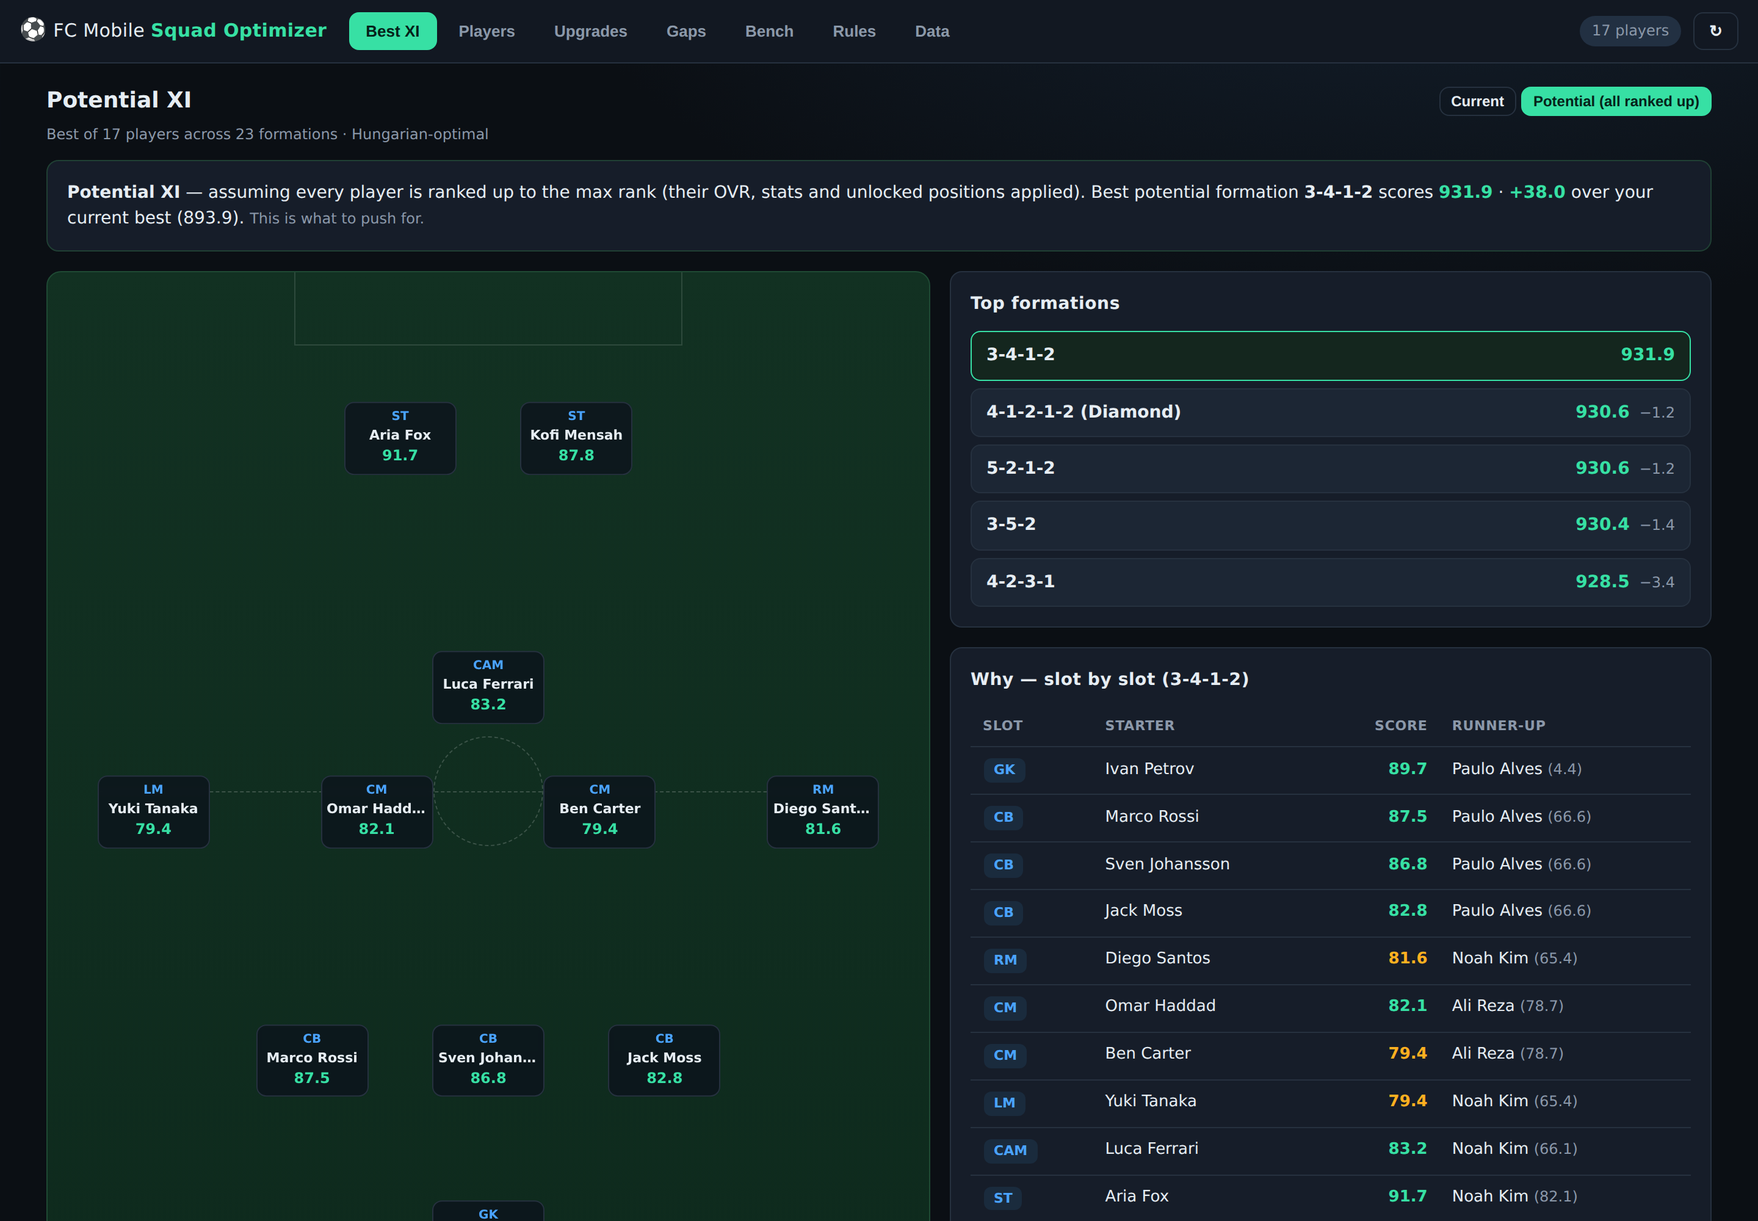
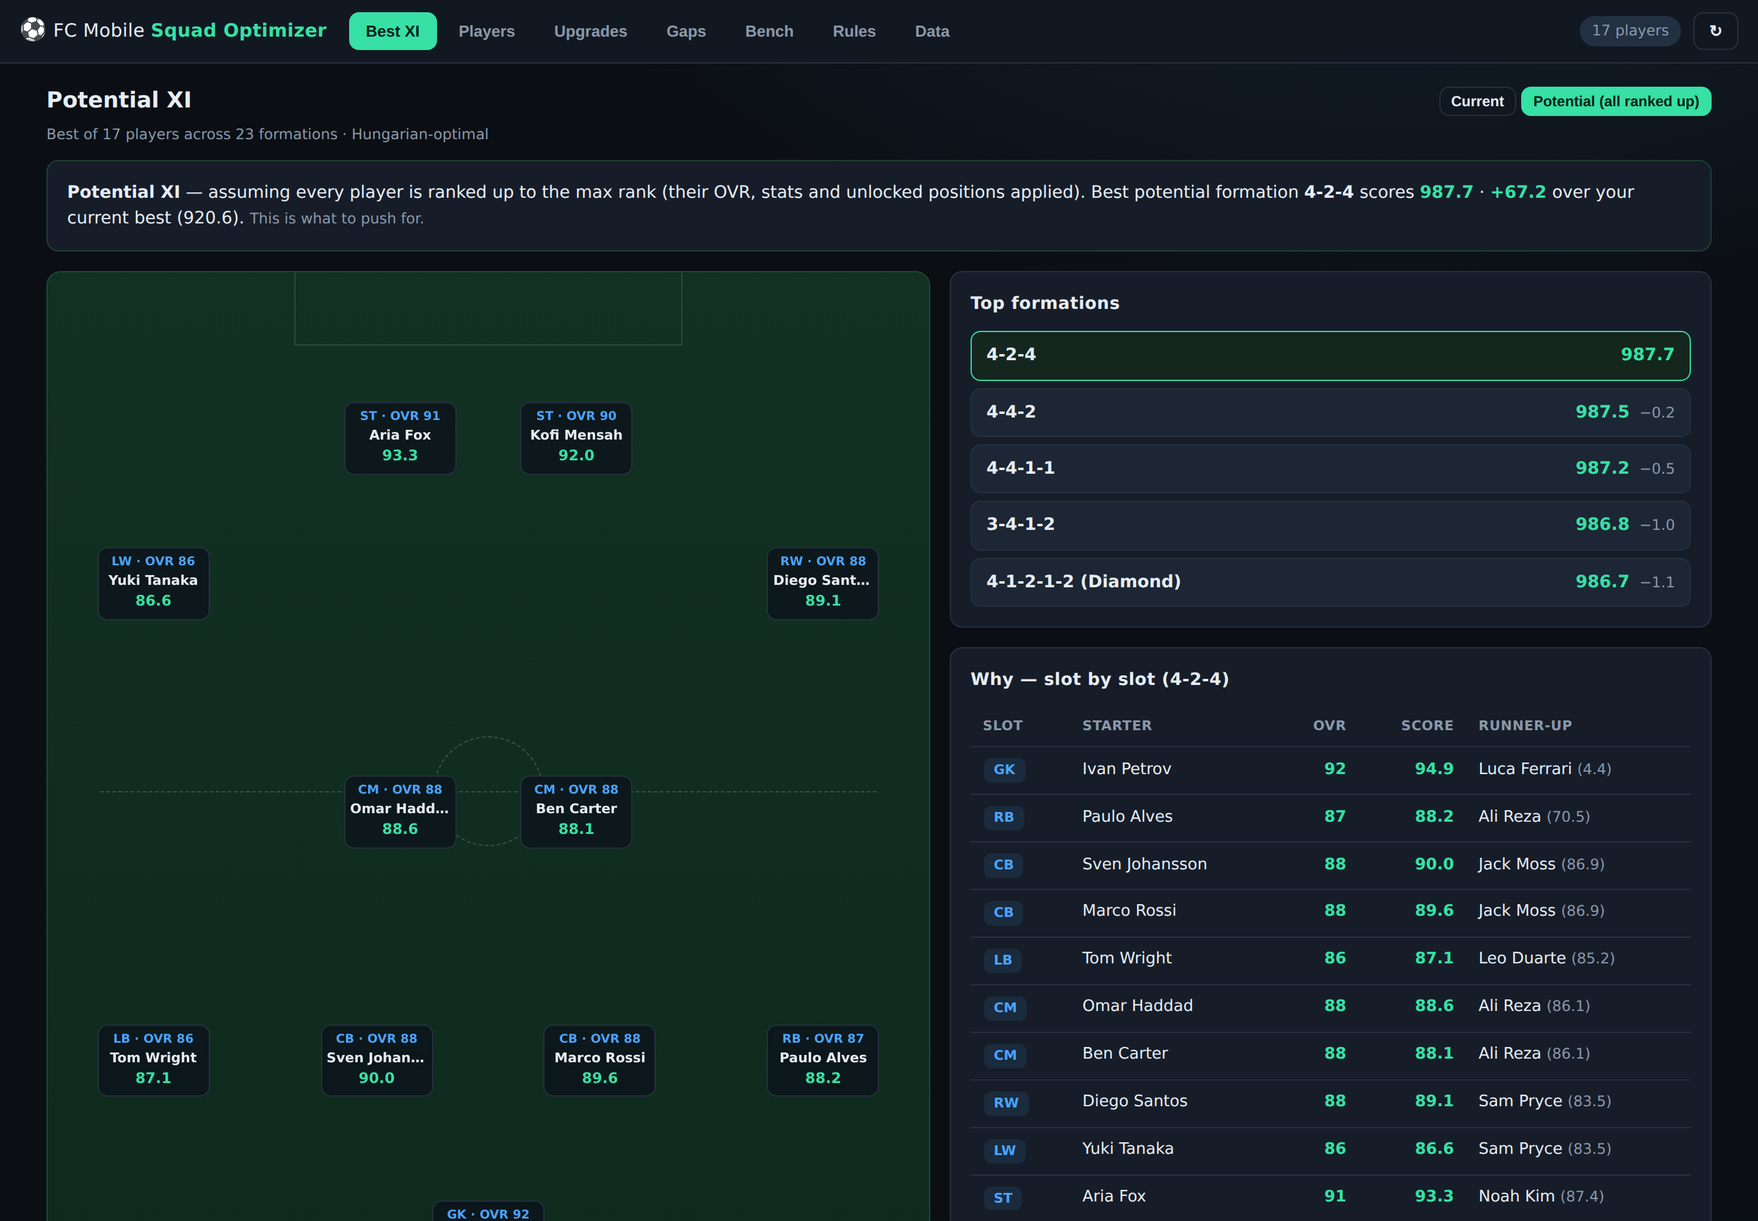
Base stats (level 0), OVR-first scoring, OVR shown, potential from base
- Player editor: new "Base stats (at training level 0)" section - the fair way
  to compare cards. Stored per player, round-trips through CSV/JSON, migrates
  existing DBs.
- Scoring is now OVR-first, then stats: score = ovr_weight*OVR +
  (1-ovr_weight)*stat_rating (default 0.7, editable in stat_weights.json).
  Applies to both Best XI and Potential XI.
- Best XI / Potential XI now show each starter's OVR (pitch cards + reasoning).
- Potential XI is built from each player's base stats, trained to max level and
  fully ranked up - the true card ceiling, ranked by base-stat quality.
- 19 tests pass (added base-stats potential test).

Claude-Session: https://claude.ai/code/session_0186D7V2GWLdLZnzqt7dgDp5

diff --git a/frontend/js/app.js b/frontend/js/app.js
@@ -158,7 +158,7 @@ async function renderSquad(app) {
     return `<div class="slot ${empty ? "empty" : ""}" style="left:${c.x * 100}%;top:${c.y * 100}%"
       data-pid="${s.player_id ?? ""}">
       <div class="card">
-        <div class="pos">${s.position}</div>
+        <div class="pos">${s.position}${empty ? "" : ` · OVR ${Math.round(s.ovr)}`}</div>
         <div class="nm">${esc(empty ? "—" : s.player_name)}</div>
         <div class="sc">${empty ? "" : s.score.toFixed(1)}</div>
       </div></div>`;
@@ -178,6 +178,7 @@ async function renderSquad(app) {
     return `<tr>
       <td><span class="chip pos">${s.position}</span></td>
       <td class="clickable" data-pid="${s.player_id ?? ""}">${esc(s.player_name)}</td>
+      <td class="num rating ${s.player_id == null ? "" : ratingClass(s.ovr)}">${s.player_id == null ? "—" : Math.round(s.ovr)}</td>
       <td class="num rating ${s.player_id == null ? "" : ratingClass(s.score)}">${s.player_id == null ? "—" : s.score.toFixed(1)}</td>
       <td>${ru}</td>
     </tr>`;
@@ -209,7 +210,7 @@ async function renderSquad(app) {
       <div class="col" style="flex:1 1 320px">
         <div class="panel"><h3>Top formations</h3><div class="formation-list">${formationList}</div></div>
         <div class="panel"><h3>Why — slot by slot (${esc(fr.formation)})</h3>
-          <table><thead><tr><th>Slot</th><th>Starter</th><th class="num">Score</th><th>Runner-up</th></tr></thead>
+          <table><thead><tr><th>Slot</th><th>Starter</th><th class="num">OVR</th><th class="num">Score</th><th>Runner-up</th></tr></thead>
           <tbody>${reasoning}</tbody></table>
         </div>
       </div>
@@ -278,7 +279,7 @@ function openEditor(id) {
   State.editing = p ? JSON.parse(JSON.stringify(p)) : {
     name: "", ovr: "", rank: "", training_level: "",
     pace: "", shooting: "", passing: "", dribbling: "", defending: "", physical: "",
-    positions: [], rankup_positions: [], playstyles: [], skill_points: "", notes: "",
+    positions: [], rankup_positions: [], playstyles: [], skill_points: "", notes: "", base_stats: null,
   };
   $("#drawer-title").textContent = id ? "Edit player" : "Add player";
   $("#player-delete-wrap").style.display = id ? "" : "none";
@@ -306,10 +307,18 @@ function buildEditorForm() {
       <div class="field"><label>Rank (0–5)</label><input id="f-rank" type="number" min="0" max="5" value="${val(p.rank)}" placeholder="0" /></div>
       <div class="field"><label>Training (0–30)</label><input id="f-training_level" type="number" min="0" max="30" value="${val(p.training_level)}" placeholder="0" /></div>
     </div>
-    <div class="field"><label>${isGk ? "Goalkeeper stats" : "Main stats"}</label>
+    <div class="field"><label>${isGk ? "Goalkeeper stats (current)" : "Main stats (current)"}</label>
       ${isGk ? '<div class="hint" style="margin-bottom:6px">GK selected — these six are Diving / Handling / Kicking / Reflexes / Positioning / Physical.</div>' : ""}
       <div class="statgrid">
         ${stats.map((s) => `<div class="field" style="margin:0"><label>${statLabel(s, isGk)}</label><input id="f-${s}" type="number" value="${val(p[s])}" placeholder="—" /></div>`).join("")}
+      </div>
+    </div>
+    <div class="field"><label>Base stats (at training level 0)</label>
+      <div class="hint" style="margin-bottom:6px">Optional but recommended — the fair way to compare cards, and what the <b>Potential XI</b> is built from.</div>
+      <div class="statgrid">
+        ${stats.map((s) => `<div class="field" style="margin:0"><label>${statLabel(s, isGk)}</label>
+          <input id="b-${s}" type="number" placeholder="—"
+            value="${p.base_stats && p.base_stats[s] != null ? p.base_stats[s] : ""}" /></div>`).join("")}
       </div>
     </div>
     <div class="field"><label>Positions (click to toggle)</label><div id="pos-chips">${posChips}</div></div>
@@ -361,6 +370,9 @@ function syncEditor() {
   const growth = {}; let has = false;
   State.meta.main_stats.forEach((s) => { const v = g("g-" + s).value.trim(); if (v !== "") { growth[s] = Number(v); has = true; } });
   p.growth_override = has ? growth : null;
+  const bs = {}; let hasB = false;
+  State.meta.main_stats.forEach((s) => { const v = g("b-" + s).value.trim(); if (v !== "") { bs[s] = Number(v); hasB = true; } });
+  p.base_stats = hasB ? bs : null;
 }
 
 function collectEditor() {
@@ -371,6 +383,9 @@ function collectEditor() {
   const growth = {};
   let hasGrowth = false;
   stats.forEach((s) => { const v = g("g-" + s).value.trim(); if (v !== "") { growth[s] = parseFloat(v); hasGrowth = true; } });
+  const baseStats = {};
+  let hasBase = false;
+  stats.forEach((s) => { const v = g("b-" + s).value.trim(); if (v !== "") { baseStats[s] = parseFloat(v); hasBase = true; } });
   const playstyles = [];
   ["ps0", "ps1"].forEach((k) => {
     const name = g("f-" + k).value;
@@ -384,6 +399,7 @@ function collectEditor() {
     positions: p.positions,
     rankup_positions: g("f-rankup_positions").value.split(",").map((x) => x.trim()).filter(Boolean),
     playstyles,
+    base_stats: hasBase ? baseStats : null,
     growth_override: hasGrowth ? growth : null,
     skill_points: Math.round(num("f-skill_points", 0)),
     notes: g("f-notes").value.trim(),

diff --git a/backend/scoring.py b/backend/scoring.py
@@ -37,6 +37,7 @@ class PlayerState:
     playstyles: list[dict] = field(default_factory=list)
     growth: dict[str, float] = field(default_factory=dict)
     skill_points: int = 0
+    base_stats: dict[str, float] = field(default_factory=dict)
 
     def copy(self) -> "PlayerState":
         return replace(
@@ -46,6 +47,7 @@ class PlayerState:
             rankup_positions=list(self.rankup_positions),
             playstyles=[dict(p) for p in self.playstyles],
             growth=dict(self.growth),
+            base_stats=dict(self.base_stats),
         )
 
 
@@ -66,6 +68,7 @@ def player_to_state(p: Player) -> PlayerState:
         playstyles=list(p.playstyles or []),
         growth=growth,
         skill_points=int(p.skill_points or 0),
+        base_stats={s: float(v) for s, v in (p.base_stats or {}).items() if v is not None},
     )
 
 
@@ -111,20 +114,33 @@ def _gk_rating(state: PlayerState) -> float:
     return sum(eff[s] * w[s] for s in MAIN_STATS)
 
 
+def _ovr_weight() -> float:
+    """How much OVR drives the score vs the position-weighted stats. Higher = 'overall
+    first, stats second'. Editable in rules/stat_weights.json."""
+    w = rules_mod.load("stat_weights").get("ovr_weight", 0.7)
+    return min(1.0, max(0.0, float(w)))
+
+
 def slot_score(state: PlayerState, position: str) -> float:
-    """Score of this player in this slot, on a 0-100-ish scale."""
+    """Score of this player in this slot, on a 0-100-ish scale.
+
+    Scored OVERALL first, then stats: score = ovr_weight*OVR + (1-ovr_weight)*stat_rating,
+    where stat_rating is the position-weighted stats (or GK stats for keepers). An
+    out-of-position penalty multiplies the result.
+    """
     pos_rules = rules_mod.load("positions")
     oop_penalty = pos_rules.get("out_of_position_penalty", 0.82)
     gk_penalty = pos_rules.get("gk_mismatch_penalty", 0.05)
+    ow = _ovr_weight()
 
     if position == "GK":
-        # Keepers are scored from their GK stats; a non-keeper in goal is prohibited.
-        return _gk_rating(state) if _is_gk(state) else state.ovr * gk_penalty
+        if not _is_gk(state):
+            return state.ovr * gk_penalty  # a non-keeper in goal is prohibited
+        return ow * state.ovr + (1 - ow) * _gk_rating(state)
 
     # Outfield slot.
     if _is_gk(state) and len(state.positions) == 1:
-        # A pure keeper stuck outfield: prohibitive.
-        factor = gk_penalty
+        factor = gk_penalty  # a pure keeper stuck outfield: prohibitive
     elif position in state.positions:
         factor = 1.0
     else:
@@ -132,8 +148,8 @@ def slot_score(state: PlayerState, position: str) -> float:
 
     eff = effective_stats(state)
     w = _normalised_weights(position)
-    base = sum(eff[s] * w[s] for s in MAIN_STATS)
-    return base * factor
+    stat_rating = sum(eff[s] * w[s] for s in MAIN_STATS)
+    return (ow * state.ovr + (1 - ow) * stat_rating) * factor
 
 
 def best_position_score(state: PlayerState) -> tuple[str, float]:
@@ -212,6 +228,22 @@ def fully_ranked_up(state: PlayerState) -> PlayerState:
         s = nxt
         guard += 1
     return s
+
+
+def potential_state(state: PlayerState) -> PlayerState:
+    """A player's ceiling for the Potential XI: start from their BASE stats at level 0
+    (the fair comparison, if entered), train to the max level, and rank up to the max.
+    If no base stats are entered, fall back to current stats and just rank up."""
+    max_level = rules_mod.load("growth").get("max_training_level", 30)
+    ns = state.copy()
+    base = state.base_stats or {}
+    if any(base.get(s) for s in MAIN_STATS):
+        ns.stats = {s: float(base.get(s, ns.stats.get(s, 0.0))) for s in MAIN_STATS}
+        ns.training_level = 0
+        trained = with_training_level(ns, max_level)
+        if trained is not None:
+            ns = trained
+    return fully_ranked_up(ns)
 
 
 def with_skill_point(state: PlayerState, stat: str) -> Optional[PlayerState]:

diff --git a/backend/csvio.py b/backend/csvio.py
@@ -6,9 +6,11 @@ import io
 
 from .models import MAIN_STATS, Player
 
+BASE_COLS = [f"base_{s}" for s in MAIN_STATS]
 CSV_COLUMNS = [
     "name", "ovr", "rank", "training_level",
     *MAIN_STATS,
+    *BASE_COLS,          # base stats at level 0 (blank = not set)
     "positions",         # pipe-separated, e.g. ST|CF
     "rankup_positions",  # pipe-separated
     "playstyles",        # pipe-separated, '+' suffix marks PlayStyle+, e.g. Rapid+|Finesse Expert
@@ -48,6 +50,7 @@ def export_csv(players: list[Player]) -> str:
             "rank": p.rank,
             "training_level": p.training_level,
             **{s: getattr(p, s) for s in MAIN_STATS},
+            **{f"base_{s}": (p.base_stats or {}).get(s, "") for s in MAIN_STATS},
             "positions": "|".join(p.positions or []),
             "rankup_positions": "|".join(p.rankup_positions or []),
             "playstyles": _fmt_playstyles(p.playstyles or []),
@@ -72,6 +75,15 @@ def parse_csv(text: str) -> list[Player]:
             except (ValueError, TypeError):
                 return default
 
+        base = {}
+        for s in MAIN_STATS:
+            v = (row.get(f"base_{s}") or "").strip()
+            if v != "":
+                try:
+                    base[s] = float(v)
+                except ValueError:
+                    pass
+
         players.append(Player(
             name=row["name"].strip(),
             ovr=num("ovr", int, 50),
@@ -83,6 +95,7 @@ def parse_csv(text: str) -> list[Player]:
             dribbling=num("dribbling", float, 50),
             defending=num("defending", float, 50),
             physical=num("physical", float, 50),
+            base_stats=base or None,
             positions=[x.strip() for x in (row.get("positions") or "").split("|") if x.strip()],
             rankup_positions=[x.strip() for x in (row.get("rankup_positions") or "").split("|") if x.strip()],
             playstyles=_parse_playstyles(row.get("playstyles", "")),

diff --git a/backend/db.py b/backend/db.py
@@ -11,9 +11,10 @@ import sqlite3
 from .models import MAIN_STATS, Player
 from .paths import DB_PATH, ensure_dirs
 
-JSON_FIELDS = {"positions", "rankup_positions", "playstyles", "growth_override"}
+JSON_FIELDS = {"positions", "rankup_positions", "playstyles", "growth_override", "base_stats"}
 COLUMNS = [
     "name", "ovr", "rank", "training_level", *MAIN_STATS,
+    "base_stats",
     "positions", "rankup_positions", "playstyles", "growth_override",
     "skill_points", "notes",
 ]
@@ -36,11 +37,17 @@ def init_db() -> None:
             name TEXT NOT NULL,
             ovr INTEGER, rank INTEGER, training_level INTEGER,
             pace REAL, shooting REAL, passing REAL, dribbling REAL, defending REAL, physical REAL,
+            base_stats TEXT,
             positions TEXT, rankup_positions TEXT, playstyles TEXT, growth_override TEXT,
             skill_points INTEGER, notes TEXT
         )
         """
     )
+    # Migrate older databases that predate a column (e.g. base_stats).
+    existing = {row["name"] for row in con.execute("PRAGMA table_info(players)").fetchall()}
+    for col, decl in {"base_stats": "TEXT"}.items():
+        if col not in existing:
+            con.execute(f'ALTER TABLE players ADD COLUMN "{col}" {decl}')
     con.commit()
     con.close()
 
@@ -52,7 +59,7 @@ def _row_to_player(row: sqlite3.Row) -> Player:
         if raw:
             d[f] = json.loads(raw)
         else:
-            d[f] = None if f == "growth_override" else []
+            d[f] = None if f in ("growth_override", "base_stats") else []
     return Player(**d)
 
 

diff --git a/backend/optimizer.py b/backend/optimizer.py
@@ -24,6 +24,7 @@ class SlotAssignment:
     player_id: Optional[int]
     player_name: str
     score: float
+    ovr: Optional[float]
     runner_up_id: Optional[int]
     runner_up_name: Optional[str]
     runner_up_score: Optional[float]
@@ -88,13 +89,13 @@ def solve_formation(
                 ru_id, ru_name, ru_score = st.id, st.name, float(col[i])
 
         if r is None:
-            assignments.append(SlotAssignment(j, pos, None, "(empty)", 0.0, ru_id, ru_name, ru_score))
+            assignments.append(SlotAssignment(j, pos, None, "(empty)", 0.0, None, ru_id, ru_name, ru_score))
         else:
             st = states[r]
             sc = float(col[r])
             total += sc
             assignments.append(
-                SlotAssignment(j, pos, st.id, st.name, sc, ru_id, ru_name, ru_score)
+                SlotAssignment(j, pos, st.id, st.name, sc, float(st.ovr), ru_id, ru_name, ru_score)
             )
 
     return FormationResult(formation=formation["name"], total=total, slots=assignments)

diff --git a/backend/models.py b/backend/models.py
@@ -19,6 +19,7 @@ MAIN_STATS = ["pace", "shooting", "passing", "dribbling", "defending", "physical
 # Fields a client is allowed to set on a player (everything except the id).
 EDITABLE_FIELDS = [
     "name", "ovr", "rank", "training_level", *MAIN_STATS,
+    "base_stats",
     "positions", "rankup_positions", "playstyles",
     "growth_override", "skill_points", "notes",
 ]
@@ -45,6 +46,9 @@ class Player:
     rankup_positions: list = field(default_factory=list)
     # Up to two play styles: [{"name": "Rapid", "plus": false}, ...]
     playstyles: list = field(default_factory=list)
+    # Base stats at training level 0 (the fair way to compare cards, since current stats
+    # depend on how much a player has been trained). Optional dict {"pace": 70, ...}.
+    base_stats: Optional[dict] = None
     # Optional per-player growth override: {"pace": 0.6, ...}. None -> use rules/growth.json.
     growth_override: Optional[dict] = None
     # Unspent skill points available to allocate.

diff --git a/tests/test_scoring.py b/tests/test_scoring.py
@@ -94,3 +94,17 @@ def test_skill_point_spend():
     assert up.skill_points == 0
     assert up.stats["shooting"] > p.stats["shooting"]
     assert with_skill_point(mk(skill_points=0), "shooting") is None
+
+
+def test_potential_uses_base_stats_trained_and_ranked():
+    from backend.scoring import potential_state
+    STATS = ["pace", "shooting", "passing", "dribbling", "defending", "physical"]
+    p = mk(positions=["ST"], training_level=10, rank=0, ovr=80,
+           growth={s: 1.0 for s in STATS})
+    p.base_stats = {s: 50.0 for s in STATS}
+    pot = potential_state(p)
+    assert pot.training_level == 30          # trained to max from base
+    assert pot.rank == 5                      # fully ranked up
+    # base 50 + growth 1.0*30 = 80, plus rank stat bumps (>= 80)
+    assert pot.stats["shooting"] >= 80
+    assert pot.ovr > p.ovr                    # rank ups raised OVR

diff --git a/seed_sample.py b/seed_sample.py
@@ -44,11 +44,15 @@ def main() -> None:
     if replace:
         db.delete_all()
     for (name, ovr, rank, lvl, pac, sho, pas, dri, dfn, phy, pos, styles) in SAMPLE:
+        cur = {"pace": pac, "shooting": sho, "passing": pas, "dribbling": dri, "defending": dfn, "physical": phy}
+        # Rough level-0 base stats for the demo (current minus ~0.4 per trained level).
+        base = {s: round(v - 0.4 * lvl) for s, v in cur.items()}
         db.create(Player(
             name=name, ovr=ovr, rank=rank, training_level=lvl,
-            pace=pac, shooting=sho, passing=pas, dribbling=dri, defending=dfn, physical=phy,
             positions=pos,
+            base_stats=base,
             playstyles=[{"name": n, "plus": plus} for (n, plus) in styles],
+            **cur,
         ))
     print(f"Seeded {len(SAMPLE)} sample players (replace={replace}).")
 

diff --git a/backend/main.py b/backend/main.py
@@ -130,9 +130,9 @@ def squad(top: int = 5, potential: bool = False):
     out = {"enough_players": True, "have": len(states), "potential": potential}
     if potential:
         from .optimizer import best_squad_score
-        from .scoring import fully_ranked_up
+        from .scoring import potential_state
         out["current_best_total"] = round(best_squad_score(states), 3)
-        states = [fully_ranked_up(s) for s in states]
+        states = [potential_state(s) for s in states]
 
     results = optimize(states, top_n=top)
     out["results"] = [formation_out(r) for r in results]

diff --git a/backend/serialize.py b/backend/serialize.py
@@ -21,6 +21,7 @@ def player_out(p: Player) -> dict:
         "training_level": p.training_level,
         **{s: getattr(p, s) for s in MAIN_STATS},
         "effective_stats": {k: round(v, 1) for k, v in eff.items()},
+        "base_stats": p.base_stats or None,
         "positions": p.positions or [],
         "rankup_positions": p.rankup_positions or [],
         "playstyles": p.playstyles or [],

diff --git a/README.md b/README.md
@@ -23,8 +23,10 @@ the way it was (including the runner-up).
 ![Best XI](docs/images/01-best-xi.png)
 
 Flip the **Current / Potential** toggle to see your **Potential XI** — the best team and
-formation if every player were **fully ranked up** (max rank, with their OVR, stats and
-unlocked positions applied). It shows the score gain over your current best, so you know
+formation at each card’s ceiling: built from every player’s **base stats (at level 0)**,
+trained to the max level and **fully ranked up**. Because base stats are the fair way to
+compare cards (current stats just reflect how much you’ve trained), this shows which players
+are genuinely worth investing in. It reports the gain over your current best, so you know
 what to push for.
 
 ![Potential XI](docs/images/11-potential-xi.png)
@@ -119,7 +121,13 @@ Then launch. Delete the samples any time from the **Players** tab.
 ## How it works
 
 ### The score (fully swappable)
-**Squad score = the sum of the 11 per-slot scores.** A slot score is:
+**Squad score = the sum of the 11 per-slot scores.** Each slot score is **OVR first, then
+stats**: `score = ovr_weight × OVR + (1 − ovr_weight) × stat_rating` (default `ovr_weight`
+0.7, editable in [`rules/stat_weights.json`](rules/stat_weights.json)), then an
+out-of-position penalty is applied. So a player’s overall rating drives selection and their
+stats fine-tune it. Each starter’s **OVR is shown** on the pitch and in the reasoning table.
+
+The `stat_rating` part is:
 
 - **Outfield:** a position-weighted average of the six main stats — a CB’s Defending and
   Physical count for far more than their Shooting. Weights live in
@@ -200,7 +208,9 @@ app never silently invents a game formula.
 ## Getting your players in
 
 - **Manual entry:** click **+ Add player** (or press <kbd>n</kbd>). Enter OVR, the six main
-  stats as shown in-game, positions, PlayStyles, rank and training level.
+  stats as shown in-game, positions, PlayStyles, rank and training level. Optionally add
+  **base stats (at training level 0)** — the fair way to compare cards and what the
+  **Potential XI** is built from.
 - **Duplicate:** editing is faster when you start from a similar card (create, tweak, save).
 - **CSV bulk import/export:** **Data** tab. Columns:
   `name, ovr, rank, training_level, pace, shooting, passing, dribbling, defending,
